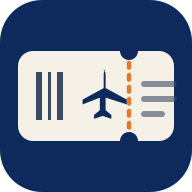
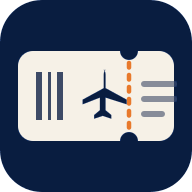
El ranking de oncoaliados, y el arranque de la app sin el salto de color

diff --git a/app/index.html b/app/index.html
@@ -7,7 +7,16 @@
 <meta name="viewport" content="width=device-width,initial-scale=1,viewport-fit=cover">
 <title>Tu Boarding Pass · Un Check-in por la Vida</title>
 <meta name="description" content="Tu pase de la campaña Un Check-in por la Vida: en qué va la ruta que ayudaste a financiar.">
-<meta name="theme-color" content="#29b9e9">
+<!-- ⚠ NAVY, NO EL CELESTE DE LA CAMPAÑA, y es lo que arreglaba el arranque.
+     El `body` de la app es `--navy-deep` (#091d40), pero esto y el
+     `background_color` del manifest decían #29b9e9: al abrir la app instalada,
+     Android pintaba una pantalla de arranque CELESTE con el ícono navy encima
+     —un cuadrado oscuro flotando en celeste— y un instante después aparecía la
+     app en navy. Krea lo describió como «el tono azul con el celeste del logo
+     queda feo», y tenía razón: eran tres colores distintos en dos segundos.
+     Los tres valores —este, el `theme_color` y el `background_color`— tienen que
+     seguir siendo el mismo que el `body`, o el salto vuelve. -->
+<meta name="theme-color" content="#091d40">
 <meta name="color-scheme" content="light">
 <!-- noindex a propósito: esto es la pantalla de una persona, no una página de
      la campaña. Lighthouse lo cuenta como falla de SEO; es la decisión correcta. -->
@@ -577,6 +586,44 @@
     .pase3d-pieza,.pase3d-flota{animation:none;}
   }
 
+  /* La línea que dice si lo que se ve es lo último. Discreta: es una nota al
+     pie, no un aviso. */
+  .latido{margin:0 0 14px;font:400 .8rem/1.3 var(--sans);color:var(--ink-soft);
+          display:flex;align-items:center;gap:7px;}
+  .latido::before{content:'';flex:none;width:7px;height:7px;border-radius:50%;
+                  background:var(--ink-soft);}
+  .latido[data-yendo]::before{background:var(--orange);animation:latido 1.4s ease-in-out infinite;}
+  .latido[data-listo]::before{background:#2f8f4e;}
+  .latido[data-mal]::before{background:#a5372b;}
+  @keyframes latido{0%,100%{opacity:1;}50%{opacity:.25;}}
+  @media (prefers-reduced-motion:reduce){.latido::before{animation:none!important;}}
+
+  /* ── Quiénes más suman ── */
+  .rank{background:var(--paper);color:var(--navy);border-radius:16px;
+        padding:22px 20px;margin-top:18px;}
+  .rank h2{font:700 1.4rem/1.1 var(--titulo);text-transform:uppercase;margin:0 0 6px;
+           letter-spacing:.02em;}
+  .rank-bajada{margin:0 0 16px;font-size:.95rem;color:var(--ink);}
+  .rank-lista{list-style:none;margin:0;padding:0;counter-reset:puesto;}
+  .rank-lista li{display:flex;align-items:center;gap:12px;padding:11px 0;
+                 border-top:1px solid var(--paper-edge);}
+  .rank-lista li:first-child{border-top:0;}
+  /* El puesto en cifra, que es lo único que se lee como número acá. */
+  .rank-lista li::before{counter-increment:puesto;content:counter(puesto);
+    flex:none;width:26px;text-align:right;
+    font:700 .95rem/1 var(--cifra);color:var(--ink-soft);letter-spacing:-.04em;}
+  .rank-nombre{flex:1;min-width:0;font:600 .96rem/1.3 var(--sans);
+               overflow:hidden;text-overflow:ellipsis;white-space:nowrap;}
+  .rank-cuantos{flex:none;font:400 .86rem/1.3 var(--sans);color:var(--ink-soft);}
+  .rank-cuantos b{font:700 1rem/1 var(--cifra);color:var(--navy);letter-spacing:-.04em;}
+  /* Quien está mirando, marcado. Sin medalla ni color de premio: un fondo y el
+     nombre en navy alcanzan para encontrarse en la lista. */
+  .rank-lista li[data-yo]{background:var(--celeste-papel);
+    margin:0 -10px;padding-left:10px;padding-right:10px;border-radius:10px;border-top-color:transparent;}
+  .rank-lista li[data-yo] .rank-nombre::after{content:' · tú';color:var(--ink-soft);font-weight:400;}
+  .rank-mas,.rank-vos{margin:14px 0 0;font-size:.9rem;color:var(--ink);}
+  .rank-vos{padding-top:12px;border-top:1px solid var(--paper-edge);}
+
   /* ── El código de tripulación ── */
   .tripu{background:var(--paper);color:var(--navy);border-radius:16px;
          padding:22px 20px;margin-top:18px;}
@@ -811,6 +858,14 @@
       <h2 id="t-vuelo">Tu oncovuelo</h2>
       <p id="vuelo-nota">Estamos reuniendo los Héroes de Rescate para la primera ruta.</p>
 
+      <!-- ⚠ ESTA LÍNEA EXISTE PORQUE LA HOJA «PARECÍA NO FUNCIONAR».
+           Krea editaba la pestaña `vuelo` y no veía el cambio. No era un
+           error: Apps Script en frío tarda más de veinte segundos, y durante
+           esa espera la app muestra los valores de respaldo del HTML, sin una
+           sola señal de que esté yendo a buscar los de verdad. Se cerraba
+           antes de que llegara la respuesta. Ahora se ve. -->
+      <p class="latido" id="latido" aria-live="polite" hidden></p>
+
       <ol class="etapas" id="etapas">
         <!-- Nace marcada: «reuniendo Héroes» siempre es verdad, y el servidor
              tarda más de 20 s en frío. Sin esto las cuatro salían apagadas
@@ -893,6 +948,19 @@
 
       <p class="tripu-ya" id="tripu-ya" hidden>Llegaste por la invitación de
         alguien, y ya quedó anotado. Gracias por sumarte a su tripulación.</p>
+    </section>
+
+    <!-- ── Quiénes más suman ───────────────────────────────────────────────
+         El título no es competitivo a propósito: esta campaña es sobre niños
+         con cáncer y «los que van ganando» estaría fuera de lugar. Se nombra
+         lo que hicieron, no el puesto. -->
+    <section class="rank" id="rank" hidden aria-labelledby="t-rank">
+      <h2 id="t-rank">Oncoaliados que más suman</h2>
+      <p class="rank-bajada">Personas que trajeron a otras, y esas otras
+        adoptaron su Héroe de Rescate.</p>
+      <ol class="rank-lista" id="rank-lista"></ol>
+      <p class="rank-mas" id="rank-mas" hidden></p>
+      <p class="rank-vos" id="rank-vos" hidden></p>
     </section>
 
     <!-- ── Sumar más ───────────────────────────────────────────────────────

diff --git a/app/app.js b/app/app.js
@@ -626,7 +626,8 @@
       $('form-entrar').hidden = true;
     }
 
-    conTope(alServidor({ action: 'estado', token: (yo && yo.token) || '' }))
+    latido('yendo');
+    conTope(alServidor({ action: 'estado', token: (yo && yo.token) || '', ranking: true }))
       .then(function (r) {
         // El servidor no contestó JSON: es un problema de conexión o de
         // despliegue, no que esta persona no exista. Se vuelve a intentar antes
@@ -634,12 +635,15 @@
         if (!r || (!r.ok && r.motivo === 'respuesta_no_json')) {
           if (reintentarEstado()) return;
           limpiarSinConexion();
+          latido('mal');
           pintarSinConexion();
           return;
         }
         limpiarSinConexion();
         intento = 0;
         if (!r.ok) { pintarDesconocido(); return; }
+        latido('listo', horaCorta());
+        pintarRanking(r.ranking);
         pintarVuelo(r.vuelo);
         pintarAporte(r.vuelo);
         pintarCierre(r.vuelo);
@@ -665,6 +669,7 @@
       })
       .catch(function () {
         if (reintentarEstado()) return;
+        latido('mal');
         pintarSinConexion();
       });
   }
@@ -705,6 +710,99 @@
    * guion adentro y dos botones que no hacen nada. Un bloque que no está se
    * entiende; uno vacío parece roto.
    */
+  /**
+   * La línea que dice si lo que se está viendo es lo último que hay.
+   *
+   * ⚠ NO ES DECORACIÓN. Krea editaba la hoja `vuelo`, abría la app y veía los
+   * valores viejos: no había ningún error, pero Apps Script en frío tarda más
+   * de veinte segundos y en ese rato la app muestra el respaldo del HTML sin
+   * decir nada. Cerraba antes de que llegara la respuesta y concluía que la
+   * hoja no servía. Esta línea es la diferencia entre «no anda» y «esperá».
+   */
+  function latido(estado, cuando) {
+    var el = $('latido');
+    if (!el) return;
+    el.hidden = false;
+    el.removeAttribute('data-yendo');
+    el.removeAttribute('data-listo');
+    el.removeAttribute('data-mal');
+    if (estado === 'yendo') {
+      el.setAttribute('data-yendo', '');
+      el.textContent = 'Buscando el estado más reciente…';
+    } else if (estado === 'listo') {
+      el.setAttribute('data-listo', '');
+      el.textContent = 'Al día' + (cuando ? ' · ' + cuando : '');
+    } else {
+      el.setAttribute('data-mal', '');
+      el.textContent = 'No pudimos conectarnos. Esto es lo último que guardamos.';
+    }
+  }
+
+  function horaCorta() {
+    try {
+      return new Date().toLocaleTimeString('es-VE', { hour: '2-digit', minute: '2-digit' });
+    } catch (e) { return ''; }
+  }
+
+  /**
+   * Quiénes más gente trajeron.
+   *
+   * ⚠ SIN MEDALLAS NI PUNTOS. Es una campaña sobre niños con cáncer: un podio
+   * con oro y plata estaría fuera de lugar, y el cliente lo pidió así. Se
+   * nombra lo que la persona hizo —«trajo a 3»— y no el puesto que ocupa.
+   */
+  function pintarRanking(r) {
+    var caja = $('rank');
+    if (!caja) return;
+    if (!r || !r.lista || !r.lista.length) { caja.hidden = true; return; }
+    caja.hidden = false;
+
+    var ol = $('rank-lista');
+    ol.textContent = '';
+    r.lista.forEach(function (p) {
+      var li = document.createElement('li');
+      if (p.yo) li.setAttribute('data-yo', '');
+      var n = document.createElement('span');
+      n.className = 'rank-nombre';
+      n.textContent = p.nombre;
+      var c = document.createElement('span');
+      c.className = 'rank-cuantos';
+      /* El número en negrita y la palabra al lado: «3 a bordo» se lee de un
+         vistazo, «3» solo no dice de qué. */
+      var b = document.createElement('b');
+      b.textContent = String(p.cuantos);
+      c.appendChild(b);
+      c.appendChild(document.createTextNode(p.cuantos === 1 ? ' a bordo' : ' a bordo'));
+      li.appendChild(n); li.appendChild(c);
+      ol.appendChild(li);
+    });
+
+    var mas = $('rank-mas');
+    if (r.restantes > 0) {
+      mas.hidden = false;
+      mas.textContent = r.restantes === 1
+        ? 'Y un oncoaliado más que también trajo gente.'
+        : 'Y ' + r.restantes + ' oncoaliados más que también trajeron gente.';
+    } else mas.hidden = true;
+
+    /* A quien no entró en la lista se le dice dónde está y cuánto le falta.
+       Un ranking que sólo muestra a los de arriba no le sirve a nadie más. */
+    var vos = $('rank-vos');
+    var estaArriba = r.lista.some(function (p) { return p.yo; });
+    if (estaArriba) { vos.hidden = true; return; }
+    if (r.miPuesto > 0) {
+      vos.hidden = false;
+      vos.textContent = 'Tú vas ' + r.miCuenta + (r.miCuenta === 1 ? ' a bordo' : ' a bordo')
+        + (r.faltanPara > 0
+            ? ', y con ' + r.faltanPara + (r.faltanPara === 1 ? ' más entras' : ' más entras') + ' a esta lista.'
+            : '.');
+    } else {
+      vos.hidden = false;
+      vos.textContent = 'Todavía no trajiste a nadie que haya activado su pase. '
+        + 'Comparte tu código y esta lista te espera.';
+    }
+  }
+
   function pintarInvitacion(yo) {
     var codigo = String((yo && yo.invitacion) || '');
     if (!codigo) { $('tripu').hidden = true; return; }
